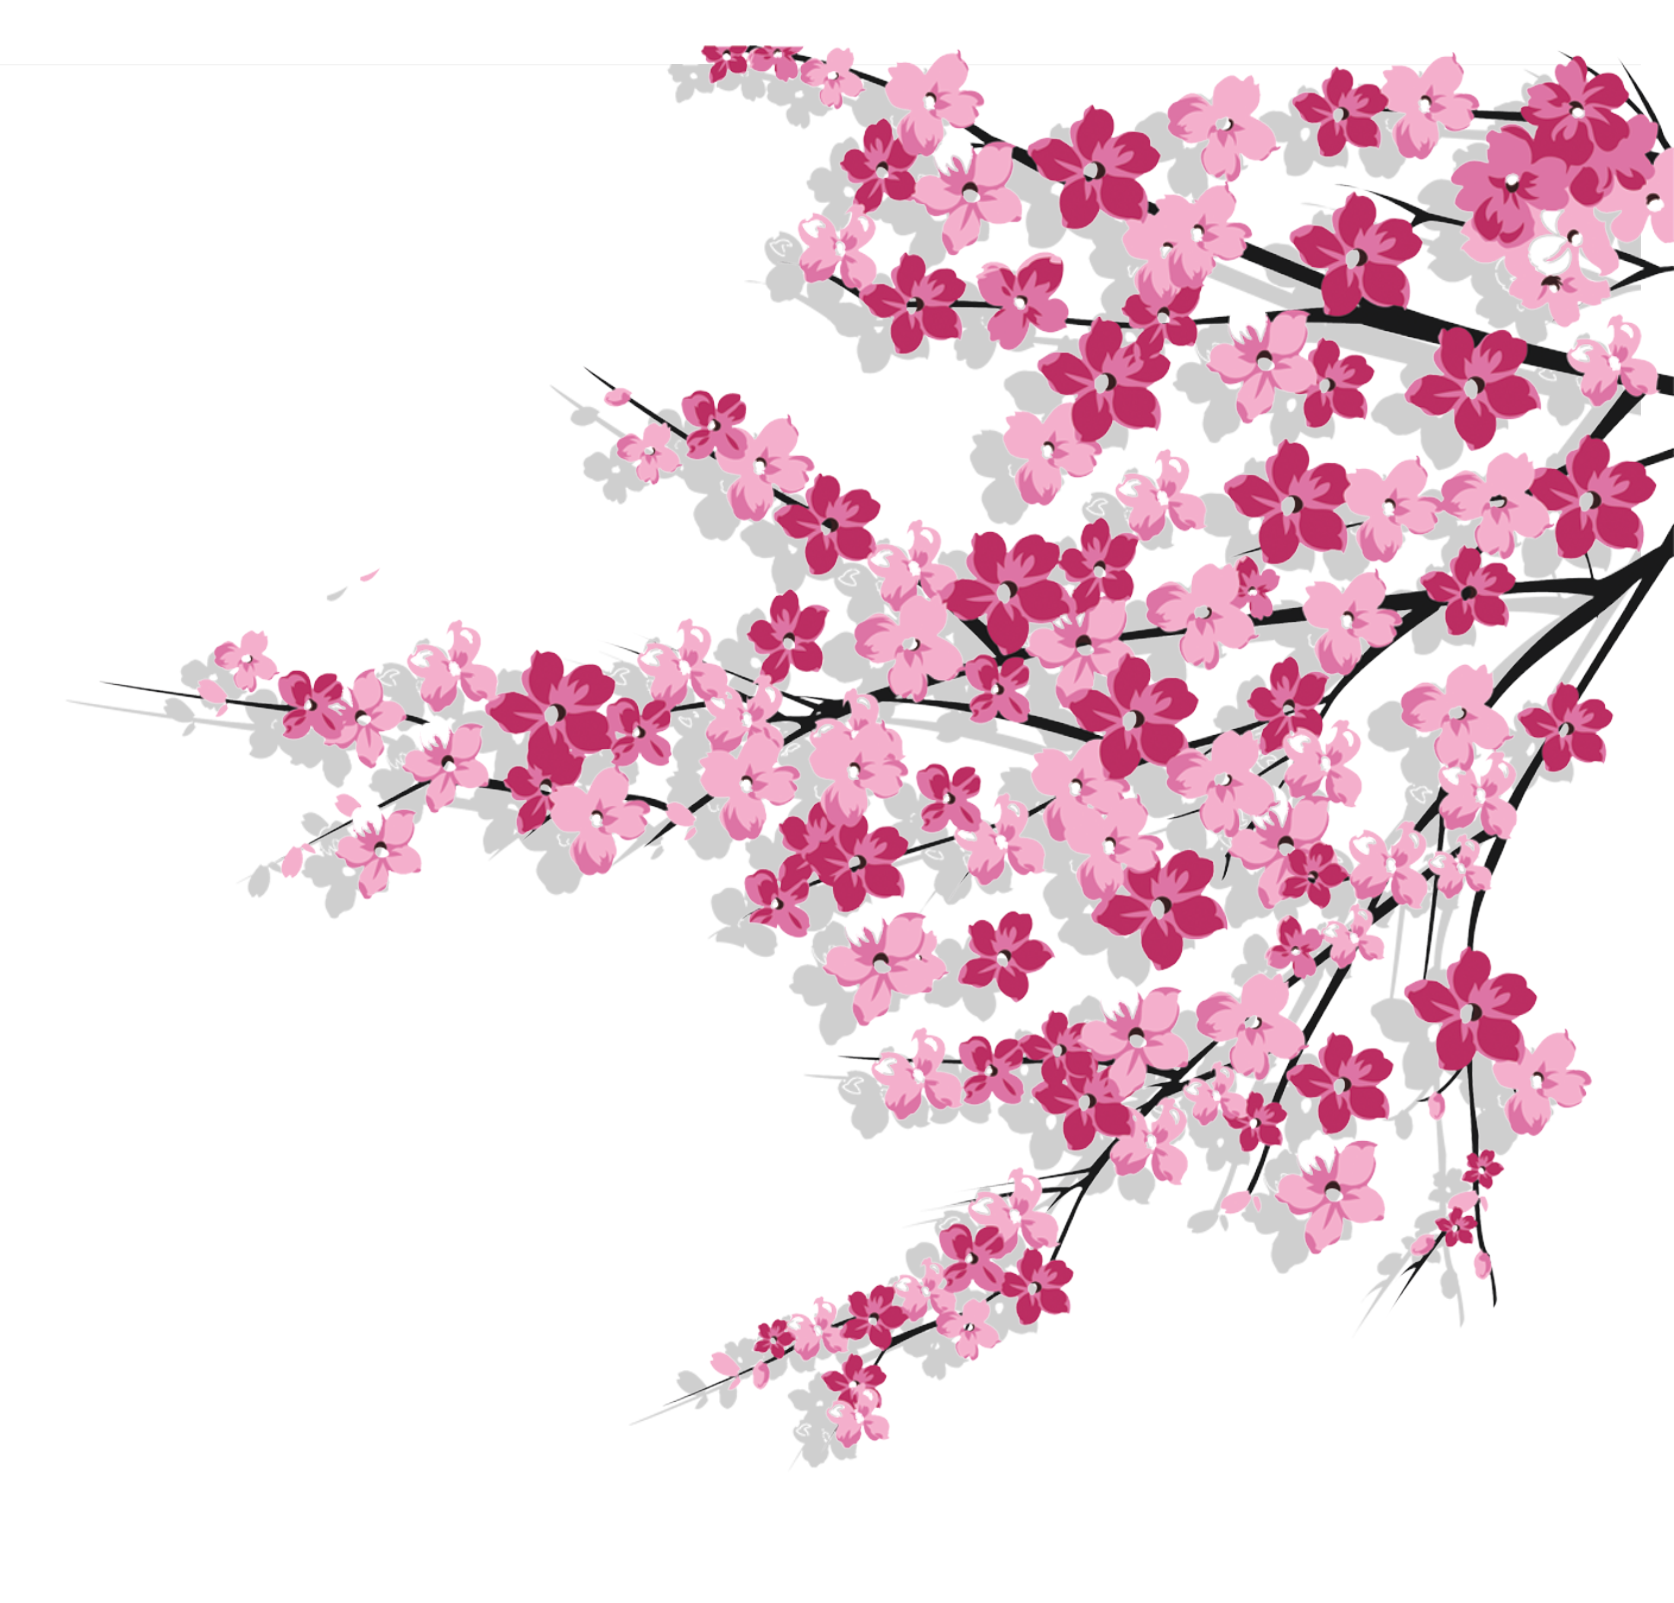
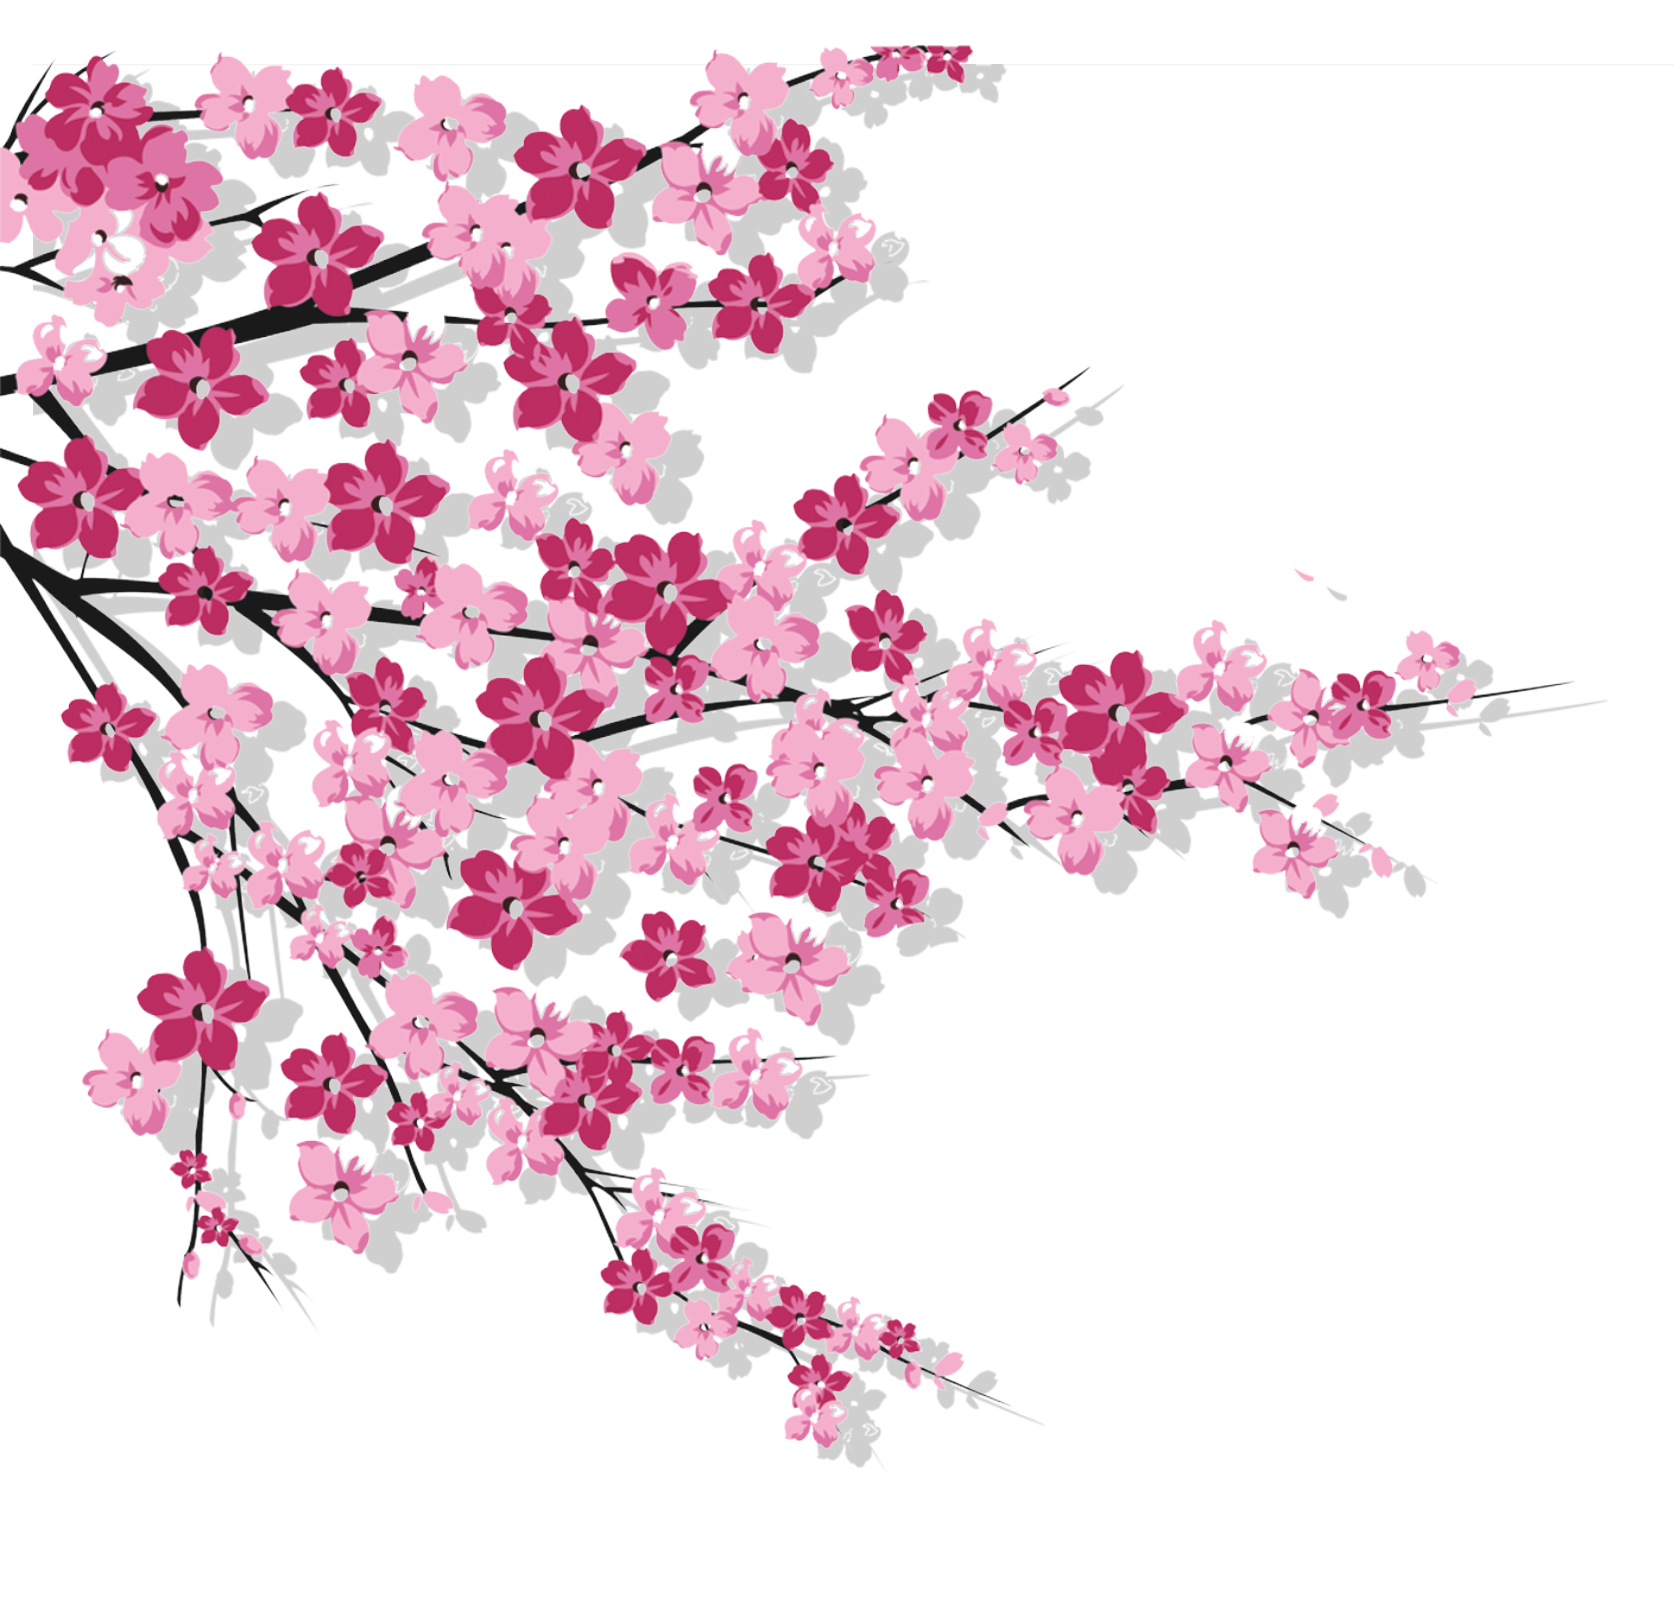
Update giao diện đồ họa lần 3 ( cánh đào bay :v )

diff --git a/js/displayAll.js b/js/displayAll.js
@@ -1,9 +1,7 @@
 function displayAll(){
-    this.clock = document.getElementsByClassName("clock")[0]; // Container clock
-    this.elementTime = document.getElementsByClassName("element-time"); // Các đối tượng element-time dùng để hiển thị phần tử time
-    this.timeName = document.querySelectorAll(".clock .viewTime .time-remain > p"); // Tên của các thành phần thời gian
-    this.haiCham = document.querySelectorAll(".clock .viewTime .hai-cham > p"); // Dấu hai chấm ngăn cách
-    this.flower = document.getElementsByClassName("flower"); // Hoa đào vào hoa mai
+    this.treeFlower = document.getElementsByClassName("contain-tree-flower"); // Cây hoa đào vào hoa mai
+    this.floweFly = [] // Mảng chứa các đối tượng cánh hoa, các bông hoa sử dụng để tạo hiệu ứng bay
+    
     // Hàm hiển thị các phần tử với giá trị Top, thời gian bắt đầu, thời gian lặp qua từng phần tử,
     // mảng phần tử, loại vị trí, giá trị, đơn vị đo của giá trị Top
     this.display = function(delayTime, repeatTime, transition, arrayElement, position, value, typeValue) {
@@ -37,43 +35,16 @@ function displayAll(){
             },repeatTime);
         }, delayTime);
     };
-    // Hiển thị khung clock
-    this.displayClock = function(){
-        setTimeout(()=>{
-            this.clock.style.opacity = "1";
-            this.clock.style.width = "50%";
-            this.clock.style.transition = "1s";
-            setTimeout(()=>{
-                this.clock.style.height = "220px";
-            }, 300);
-        }, 500);
-    };
-    // Hiển thị các phần tử thời gian
-    this.displayElementTime = function(){
-        this.display(800, 100, 1, this.elementTime, "top", 0, "px");
-    };
-    // Hiển thị name time
-    this.displayTimeName = function(){
-        this.display(1000, 200, 1, this.timeName, "top", -30, "%");
-    };
-    // Hiển thị dấu hai chấm ":"
-    this.displayHaiCham = function(){
-        this.display(1000, 200, 1, this.haiCham, "top", 0, "%");
-    };
     // Hiển thị hoa
-    this.displayFlower = function(){
-        var j = [this.flower[0]];
+    this.displayTreeFlower = function(){
+        var j = [this.treeFlower[0]];
         this.display(1000, 0, 1.5, j, "left", 0, "%");
-        j = [this.flower[1]];
+        j = [this.treeFlower[1]];
         this.display(1000, 0, 1.5, j, "right", 0, "%");
     }
 }
 
 
-// Khởi chạy các hàm
+// Khởi chạy các phương thức
 var display = new displayAll();
-display.displayClock();
-display.displayElementTime();
-display.displayTimeName();
-display.displayHaiCham();
-display.displayFlower();
+display.displayTreeFlower();

diff --git a/js/flowerFly/flowerFly.js b/js/flowerFly/flowerFly.js
@@ -1,0 +1,77 @@
+function flowerFly() {
+    this.flower;
+    this.width;
+    this.height;
+    this.top = -100;
+    this.left = -100;
+    this.aTop;
+    this.aLeft;
+    this.view = document.querySelector(".contain-tree-flower:nth-child(1)");
+    this.typeFlower = [
+        "canh-hoa-dao1",
+        "canh-hoa-dao2",
+        "canh-hoa-dao3",
+        "canh-hoa-dao4",
+        "bong-hoa-dao1",
+        "bong-hoa-dao2"
+    ];
+    this.typeFlieImg = ".png";
+    this.n = 15; // Tổng số lượng các cánh hoa và bông hoa đang bay.
+    this.i;
+    this.p;
+
+    this.random = function(){
+        this.i = Math.floor(Math.random()*6); // lấy ngẫu nhiên 1 số từ 0->5 và dùng số đó để lấy ra một typeFlower bất kỳ
+        this.p = Math.floor(Math.random()*10)*10; //
+        this.aTop = Math.ceil(Math.random()*5); //
+        do {
+            this.aLeft = Math.ceil(Math.random()*5);
+        } while(this.aLeft == this.aTop); //
+        if(this.i == 4 || this.i == 5) {
+            this.width = 5;
+            this.height = 5;
+        } else {
+            this.width = 3.5;
+            this.height = 3.5;
+        }
+    };
+    // Tạo các dối tượng cánh hoa và bông hoa
+    this.createFlowerFly = function(){
+        this.random();
+        this.flower = document.createElement("img");
+        this.flower.src = "imgs/"+this.typeFlower[this.i]+this.typeFlieImg;
+        this.flower.style.width = this.width + "%";
+        this.flower.style.height = this.height + "%";
+        this.flower.style.top = this.top + "px";
+        this.flower.style.left = this.left + "px";
+        this.flower.style.position = "absolute";
+        // this.flower.style.border = "1px solid black";
+        this.view.appendChild(this.flower);
+        setTimeout(() => {
+            this.actionFly();
+        }, 1000);
+    };
+
+    this.actionFly = function(){
+        var interval = setInterval(() => {
+            this.top += this.aTop;
+            this.left += this.aLeft;
+            this.flower.style.top = this.top + "px";
+            this.flower.style.left = this.left + "px";
+            if(this.left >=window.screen.availWidth || this.top >= window.screen.availHeight) {
+                console.log("Xin chào !");
+                clearInterval(interval);
+                this.view.removeChild(this.flower);
+                this.top = -100;
+                this.left = -100;
+                this.createFlowerFly();
+            }
+        }, 20);
+    }
+}
+
+var listFlowerFly = [];
+for(var i=0; i<100; i++) {
+    listFlowerFly[i] = new flowerFly();
+    listFlowerFly[i].createFlowerFly();
+}

diff --git a/index.html b/index.html
@@ -3,15 +3,18 @@
     <head>
         <title>CountDown</title>
         <meta name="viewport" content="width=device-width, initial-scale=1.0">
-        <link rel="stylesheet" type="text/css" href="css/config/timeRemain.css" />
+        <link rel="stylesheet" type="text/css" href="css/configClock/timeRemain.css" />
         <link rel="stylesheet" type="text/css" href="css/index.css" />
         <link href="https://fonts.googleapis.com/css?family=Roboto&display=swap" rel="stylesheet" />
     </head>
     <body>
         <!-- <div class="background-website"></div> -->
-        <img class="flower" src="imgs/hoa-dao2.png" />
-        <img class="flower" src="imgs/hoa-mai.png" />
-        <img class="lenter" src="imgs/long-den2.png" />
+        <div class="contain-tree-flower">
+            <img class="tree-flower" src="imgs/hoa-dao2.png" />
+        </div>
+        <div class="contain-tree-flower">
+            <img class="tree-flower" src="imgs/hoa-mai.png" />
+        </div>
         <!-- <img class="lenter" src="imgs/long-den3.png" />
         <img class="lenter" src="imgs/long-den4.png" /> -->
         <div class="clock">
@@ -48,8 +51,10 @@
             </div>
         </div>
     </body>
-    <script src="js/display.js"></script>
-    <script src="js/config/remainTime.js"></script>
-    <script src="js/config/countDown.js"></script>
-    <script src="js/config/viewRemainTime.js"></script>
+    <script src="js/displayAll.js"></script>
+    <script src="js/configClock/remainTime.js"></script>
+    <script src="js/configClock/countDown.js"></script>
+    <script src="js/configClock/viewRemainTime.js"></script>
+    <script src="js/configClock/displayClock.js"></script>
+    <script src="js/flowerFly/flowerFly.js"></script>
 </html>

diff --git a/js/configClock/displayClock.js b/js/configClock/displayClock.js
@@ -1,0 +1,40 @@
+function displayClock(){
+    this.clock = document.getElementsByClassName("clock")[0]; // Khung của clock
+    this.elementTime = document.getElementsByClassName("element-time"); // Các đối tượng element-time dùng để hiển thị phần tử time
+    this.timeName = document.querySelectorAll(".clock .viewTime .time-remain > p"); // Tên của các thành phần thời gian
+    this.haiCham = document.querySelectorAll(".clock .viewTime .hai-cham > p");
+    this.i = 0; // Biến trung gian
+    this.j = 0; // Biến trung gian
+
+    // Hiển thị khung clock
+    this.displayContainClock = function(){
+        setTimeout(()=>{
+            this.clock.style.opacity = "1";
+            this.clock.style.width = "50%";
+            this.clock.style.transition = "1s";
+            setTimeout(()=>{
+                this.clock.style.height = "220px";
+            }, 300);
+        }, 500);
+    };
+    // Hiển thị các phần tử thời gian
+    this.displayElementTime = function(){
+        this.display(800, 100, 1, this.elementTime, "top", 0, "px");
+    };
+    // Hiển thị name time
+    this.displayTimeName = function(){
+        this.display(1000, 200, 1, this.timeName, "top", -30, "%");
+    };
+    // Hiển thị dấu hai chấm ":"
+    this.displayHaiCham = function(){
+        this.display(1000, 200, 1, this.haiCham, "top", 0, "%");
+    };
+}
+
+displayClock.prototype = new displayAll(); // Kế thừa hàm khởi tạo displayAll để sử dụng phương thứcc display
+// Khởi chạy các hàm
+var displayClock = new displayClock();
+displayClock.displayContainClock();
+displayClock.displayElementTime();
+displayClock.displayTimeName();
+displayClock.displayHaiCham();

diff --git a/css/index.css b/css/index.css
@@ -2,19 +2,26 @@ body {
     background-image: url("../imgs/img-tet5.jpg");
     background-size: cover; 
 }
-.flower {
+
+.contain-tree-flower {
     opacity: 0;
+    /* border: 1px solid red; */
 }
-.flower:nth-child(1) {
+
+.contain-tree-flower .tree-flower {
+    width: 100%;
+    height: 100%;
+}
+
+.contain-tree-flower:nth-child(1) {
     position: fixed;
-    top: 0px;
-    left: -30%;
     width: 33%;
     height: 60%;
-    transform: rotateY(180deg);
     z-index: 9;
+    top: 0px;
+    left: -30%;
 }
-.flower:nth-child(2) {
+.contain-tree-flower:nth-child(2) {
     position: fixed;
     bottom: 10px;
     right: -30%;
@@ -22,6 +29,15 @@ body {
     height: 65%;
     z-index: 9;
 }
+ /*
+.tree-flower:nth-child(2) {
+    position: fixed;
+    bottom: 10px;
+    right: -30%;
+    width: 30%;
+    height: 65%;
+    z-index: 9;
+} */
 .lenter {
     position: fixed;
     z-index: 10;

diff --git a/css/configClock/timeRemain.css b/css/configClock/timeRemain.css
@@ -55,12 +55,12 @@
     top: -150%;
     opacity: 0;
 }
-.clock .viewTime  ul {
+.clock .viewTime .time-remain .element-time >  ul {
     width: 100%;
     position: absolute;
     transition: 0.5s;
 }
-.clock .viewTime  ul  li {
+.clock .viewTime .time-remain .element-time >  ul > li {
     width: 100%;
     height: 100%;
     list-style: none;
@@ -92,7 +92,7 @@
     .clock .viewTime .time-remain .element-time {
         border-radius: 7px;
     }
-    .clock .viewTime  ul  li {
+    .clock .viewTime  .time-remain .element-time > ul > li {
         font-size: 34.5px;
     }
 }
